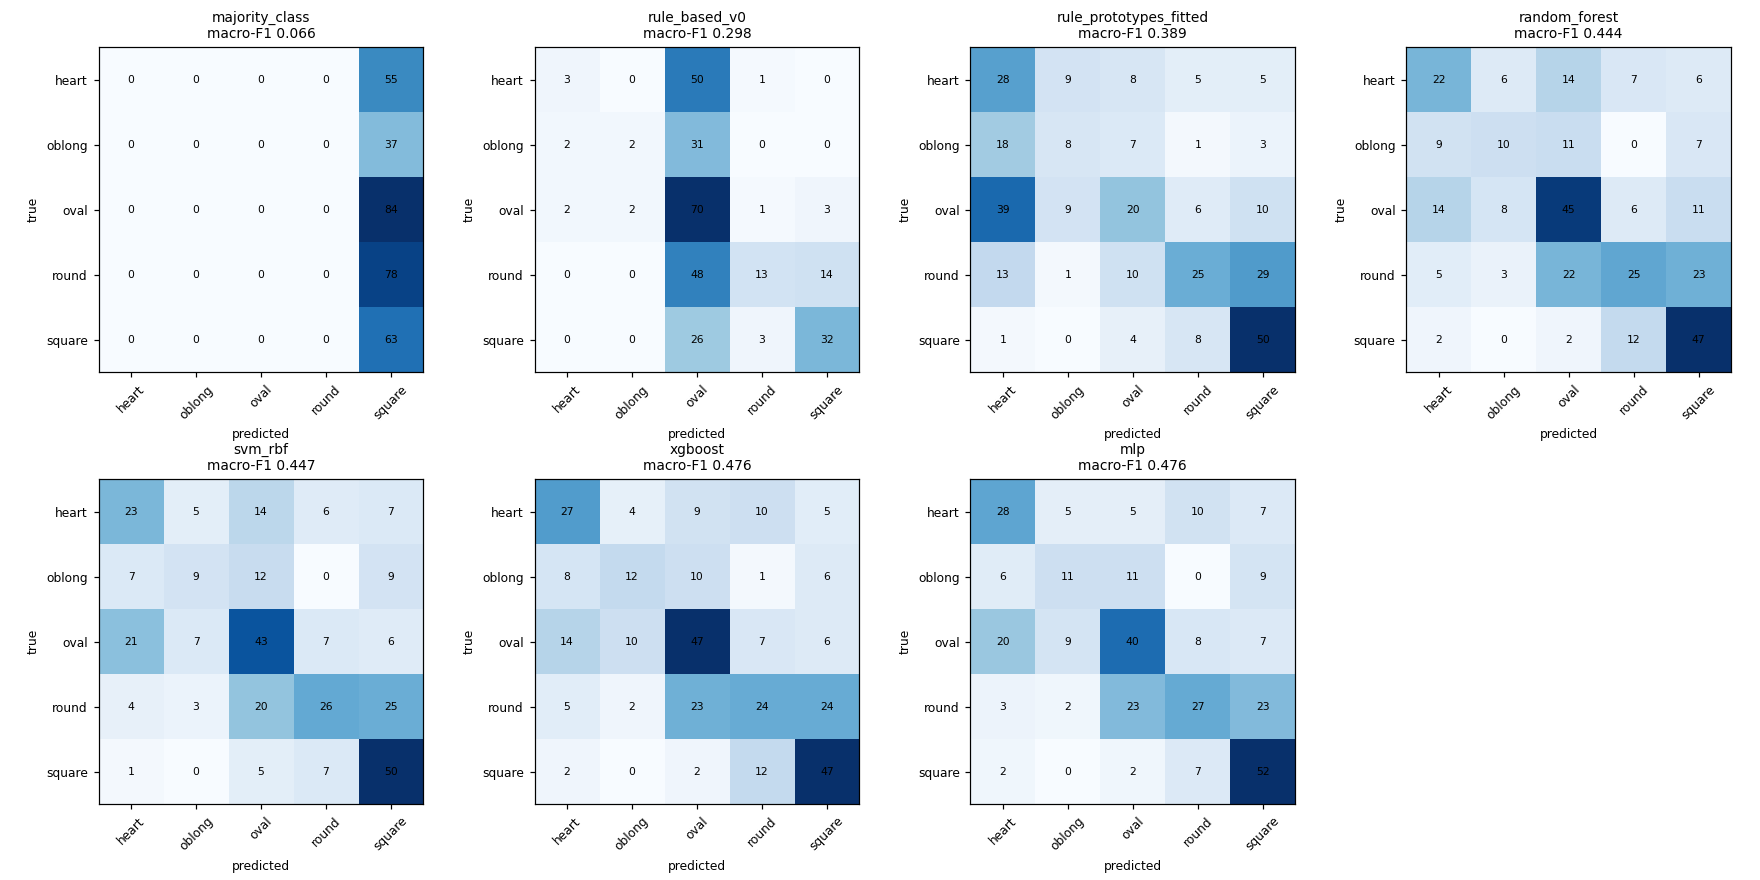
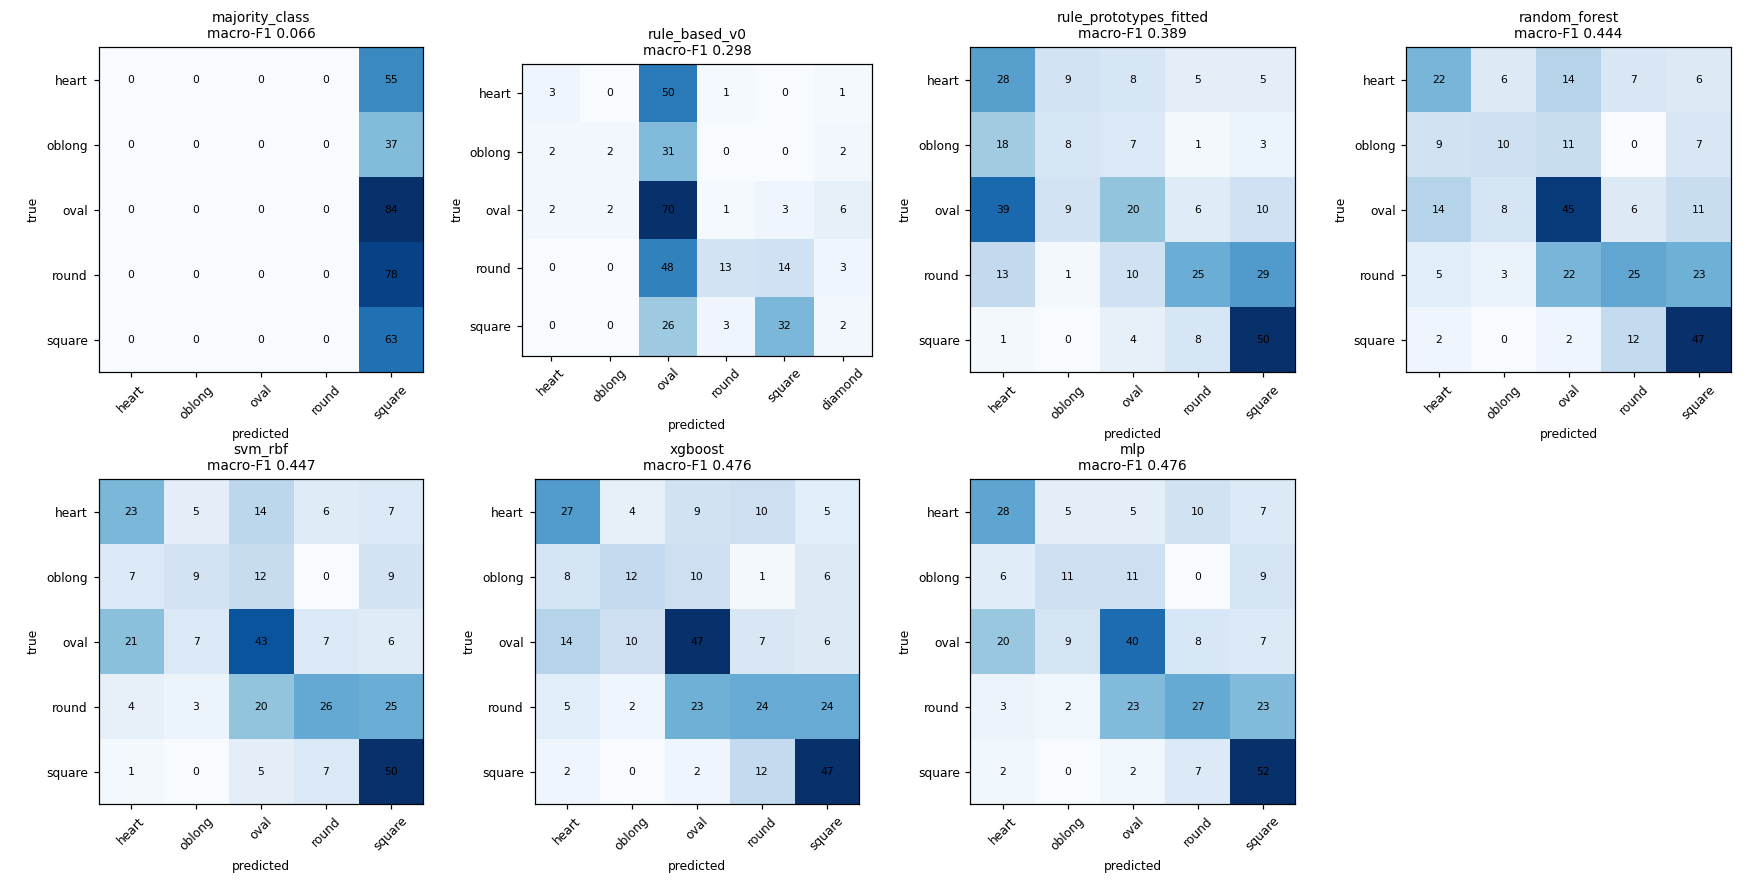
Re-run Kaggle training with full confusion matrices; test out-of-label predictions

Changed region(s): [[0.25, 0.0, 0.5, 0.5216]]

diff --git a/ml/tests/test_phase3.py b/ml/tests/test_phase3.py
@@ -82,3 +82,10 @@ def test_committed_model_predicts_on_sample(frontal_image, detector):
     pred = LearnedFaceShapeClassifier().predict(features)
     assert pred.shape in pred.scores and pred.calibrated is False
     assert sum(pred.scores.values()) == pytest.approx(1.0)
+
+
+def test_confusion_matrix_keeps_predictions_outside_labels():
+    from ml.training.train_face_shape import metrics
+    m = metrics(np.array(["oval", "round", "oval"]), np.array(["oval", "diamond", "round"]), ["oval", "round"])
+    assert m["confusion_labels"] == ["oval", "round", "diamond"]
+    assert np.sum(m["confusion_matrix"]) == 3

diff --git a/research/results/phase3/kaggle_niten19/README.md b/research/results/phase3/kaggle_niten19/README.md
@@ -22,7 +22,7 @@ Generated by `python -m ml.training.train_face_shape`; every number below comes 
 | xgboost | 0.508 ± 0.024 | 0.495 | 0.481 | 0.486 | 0.476 (0.415-0.531) |
 | mlp | 0.521 ± 0.018 | 0.498 | 0.485 | 0.491 | 0.476 (0.417-0.530) |
 
-Selected model: **mlp** (highest CV macro-F1 among trained models; the test set was not used for selection).
+Selected model: **mlp** (highest CV macro-F1 among RF, SVM, XGBoost and MLP; the test set was not used for selection).
 
 Bootstrap intervals resample test images, not people, so they understate uncertainty. Probabilities from these models are not calibrated.
 
